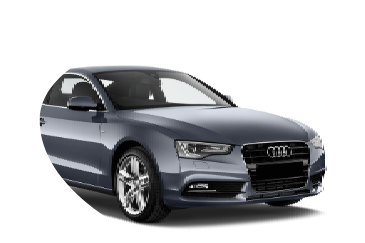
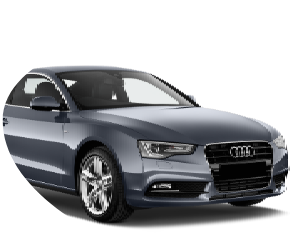
adaptive

diff --git a/build/assets/styles/main.min.css b/build/assets/styles/main.min.css
@@ -1,3 +1,3 @@
-html{-webkit-box-sizing:border-box;box-sizing:border-box}*,:after,:before{-webkit-box-sizing:inherit;box-sizing:inherit}body,html{width:100%;height:100%;padding:0;margin:0}body{font-family:Open Sans,Arial,Helvetica,sans-serif;line-height:1.42;color:#3b495f}.wrapper{width:100%;overflow:hidden;min-height:100%;position:relative;margin-bottom:60px}.content-container{max-width:1160px;margin:0 auto;display:-webkit-box;display:-ms-flexbox;display:flex;-webkit-box-orient:vertical;-webkit-box-direction:normal;-ms-flex-direction:column;flex-direction:column;-webkit-box-pack:center;-ms-flex-pack:center;justify-content:center;-webkit-box-align:center;-ms-flex-align:center;align-items:center;height:100%;background:url(../images/oval.svg) 0 50% no-repeat}
+html{-webkit-box-sizing:border-box;box-sizing:border-box}*,:after,:before{-webkit-box-sizing:inherit;box-sizing:inherit}body,html{width:100%;height:100%;padding:0;margin:0}body{font-family:Open Sans,Arial,Helvetica,sans-serif;line-height:1.42;color:#3b495f}.wrapper{width:100%;overflow:hidden;min-height:100%;position:relative;margin-bottom:60px}.content-container{max-width:1160px;display:-webkit-box;display:-ms-flexbox;display:flex;-webkit-box-orient:vertical;-webkit-box-direction:normal;-ms-flex-direction:column;flex-direction:column;-webkit-box-pack:center;-ms-flex-pack:center;justify-content:center;-webkit-box-align:center;-ms-flex-align:center;align-items:center;height:100%;background:url(../images/oval.svg) 0 50% no-repeat;margin:0 auto 75px}@media (max-width:900px) and (max-height:500px),screen and (max-width:480px){.content-container{background-position:100% 20%;margin-bottom:40px}}
 
-/*! normalize.css v8.0.1 | MIT License | github.com/necolas/normalize.css */html{line-height:1.15;-webkit-text-size-adjust:100%}body{margin:0}main{display:block}h1{font-size:2em;margin:0}hr{-webkit-box-sizing:content-box;box-sizing:content-box;height:0;overflow:visible}pre{font-family:monospace,monospace;font-size:1em}a{background-color:transparent}abbr[title]{border-bottom:none;text-decoration:underline;-webkit-text-decoration:underline dotted;text-decoration:underline dotted}b,strong{font-weight:bolder}code,kbd,samp{font-family:monospace,monospace;font-size:1em}small{font-size:80%}sub,sup{font-size:75%;line-height:0;position:relative;vertical-align:baseline}sub{bottom:-.25em}sup{top:-.5em}img{border-style:none}button,input,optgroup,select,textarea{font-family:inherit;font-size:100%;line-height:1.15;margin:0}button,input{overflow:visible}button,select{text-transform:none}[type=button],[type=reset],[type=submit],button{-webkit-appearance:button}[type=button]::-moz-focus-inner,[type=reset]::-moz-focus-inner,[type=submit]::-moz-focus-inner,button::-moz-focus-inner{border-style:none;padding:0}[type=button]:-moz-focusring,[type=reset]:-moz-focusring,[type=submit]:-moz-focusring,button:-moz-focusring{outline:1px dotted ButtonText}fieldset{padding:.35em .75em .625em}legend{-webkit-box-sizing:border-box;box-sizing:border-box;color:inherit;display:table;max-width:100%;padding:0;white-space:normal}progress{vertical-align:baseline}textarea{overflow:auto}[type=checkbox],[type=radio]{-webkit-box-sizing:border-box;box-sizing:border-box;padding:0}[type=number]::-webkit-inner-spin-button,[type=number]::-webkit-outer-spin-button{height:auto}[type=search]{-webkit-appearance:textfield;outline-offset:-2px}[type=search]::-webkit-search-decoration{-webkit-appearance:none}::-webkit-file-upload-button{-webkit-appearance:button;font:inherit}details{display:block}summary{display:list-item}[hidden],template{display:none}.content{width:100%;font-size:21px;line-height:34px;margin-bottom:46px}.content__wrap{width:86.20689655172414%;margin:0 auto;background:#fff;border-radius:100px;display:-webkit-box;display:-ms-flexbox;display:flex;-webkit-box-pack:justify;-ms-flex-pack:justify;justify-content:space-between;padding:25px 0;-webkit-box-shadow:20px 10px 50px hsla(0,0%,84.3%,.3);box-shadow:20px 10px 50px hsla(0,0%,84.3%,.3)}.content__col{width:50%}.content__col-left{padding-left:105px}.content__right-col{padding-left:10px}.form{width:100%;-ms-flex-pack:distribute;justify-content:space-around;margin-bottom:90px}.form,.label-wrap{display:-webkit-box;display:-ms-flexbox;display:flex}.label-wrap{-webkit-box-orient:vertical;-webkit-box-direction:normal;-ms-flex-direction:column;flex-direction:column;-webkit-box-align:center;-ms-flex-align:center;align-items:center;-webkit-box-pack:end;-ms-flex-pack:end;justify-content:flex-end;width:30%}.form__label{position:relative;margin-bottom:40px}.form__img-wrap{position:relative;display:block}.form__img-wrap-audi{padding-left:64px;padding-bottom:20px}.form__img-wrap:before{position:absolute;top:-1%;left:0;content:"";display:block;width:100%;height:100%;-webkit-transition:-webkit-filter .5s;transition:-webkit-filter .5s;transition:filter .5s;transition:filter .5s,-webkit-filter .5s;-webkit-filter:grayscale(1);filter:grayscale(1)}.form__img-wrap-iphone:before{background:url(../images/iphone_bg.png) 0 93% no-repeat;background-size:contain}.form__img-wrap-audi:before{background:url(../images/audi_bg.png) 51% 81% no-repeat}.form__img-wrap-palm:before{background:url(../images/palm_bg.png) 45% 85% no-repeat}.form__img-pic{position:relative}.form__checkbox{display:none;visibility:hidden}.form__checkbox-fake{display:block;width:42px;height:42px;background-color:#fff;border-radius:50%;position:absolute;bottom:-1rem;left:52%;-webkit-transform:translate(-55%);transform:translate(-55%)}.form__checkbox:checked~.form__checkbox-fake{background:url(../images/icon/check.svg) 50% no-repeat;background-color:#fff}.form__checkbox:checked~.form__img-wrap:before{-webkit-filter:grayscale(0);filter:grayscale(0)}.header{width:100%;min-height:128px;display:-webkit-box;display:-ms-flexbox;display:flex;-webkit-box-align:center;-ms-flex-align:center;align-items:center;-webkit-box-pack:center;-ms-flex-pack:center;justify-content:center;margin-bottom:16px}.header__title{font-size:3.375rem;font-weight:700;line-height:64px;text-align:center;letter-spacing:-3px}.platform{display:-webkit-box;display:-ms-flexbox;display:flex;width:86.20689655172414%;margin-bottom:75px}.banner{padding:1.5% 0;width:47%;height:368px}.banner__render{width:100%;height:100%}.description{width:50%;font-size:18px;padding:5% 3% 5% 13%;text-align:justify}.description__text{font-weight:700;line-height:28px;margin-bottom:26px}.description__list{font-size:16px;font-weight:400;line-height:40px;-webkit-padding-start:20px;padding-inline-start:20px}.registration{display:-webkit-box;display:-ms-flexbox;display:flex;-webkit-box-orient:vertical;-webkit-box-direction:normal;-ms-flex-direction:column;flex-direction:column;padding-bottom:30px;-webkit-box-align:center;-ms-flex-align:center;align-items:center;font-size:18px;font-weight:700}.registration__text{max-width:390px;text-align:center;padding:0 33px;margin-bottom:34px;letter-spacing:1.2px}.mbl1-form-reg{border:none;padding:0;z-index:9;outline:none;display:block}.registration__button{width:240px;height:60px;color:#fff;border-radius:30px;line-height:60px;text-align:center;text-decoration:none;background-color:#2da66c;-webkit-box-shadow:10px 10px 35px rgba(45,166,108,.5);box-shadow:10px 10px 35px rgba(45,166,108,.5)}
+/*! normalize.css v8.0.1 | MIT License | github.com/necolas/normalize.css */html{line-height:1.15;-webkit-text-size-adjust:100%}body{margin:0}main{display:block}h1{font-size:2em;margin:0}hr{-webkit-box-sizing:content-box;box-sizing:content-box;height:0;overflow:visible}pre{font-family:monospace,monospace;font-size:1em}a{background-color:transparent}abbr[title]{border-bottom:none;text-decoration:underline;-webkit-text-decoration:underline dotted;text-decoration:underline dotted}b,strong{font-weight:bolder}code,kbd,samp{font-family:monospace,monospace;font-size:1em}small{font-size:80%}sub,sup{font-size:75%;line-height:0;position:relative;vertical-align:baseline}sub{bottom:-.25em}sup{top:-.5em}img{border-style:none}button,input,optgroup,select,textarea{font-family:inherit;font-size:100%;line-height:1.15;margin:0}button,input{overflow:visible}button,select{text-transform:none}[type=button],[type=reset],[type=submit],button{-webkit-appearance:button}[type=button]::-moz-focus-inner,[type=reset]::-moz-focus-inner,[type=submit]::-moz-focus-inner,button::-moz-focus-inner{border-style:none;padding:0}[type=button]:-moz-focusring,[type=reset]:-moz-focusring,[type=submit]:-moz-focusring,button:-moz-focusring{outline:1px dotted ButtonText}fieldset{padding:.35em .75em .625em}legend{-webkit-box-sizing:border-box;box-sizing:border-box;color:inherit;display:table;max-width:100%;padding:0;white-space:normal}progress{vertical-align:baseline}textarea{overflow:auto}[type=checkbox],[type=radio]{-webkit-box-sizing:border-box;box-sizing:border-box;padding:0}[type=number]::-webkit-inner-spin-button,[type=number]::-webkit-outer-spin-button{height:auto}[type=search]{-webkit-appearance:textfield;outline-offset:-2px}[type=search]::-webkit-search-decoration{-webkit-appearance:none}::-webkit-file-upload-button{-webkit-appearance:button;font:inherit}details{display:block}summary{display:list-item}[hidden],template{display:none}.content{width:100%;font-size:21px;line-height:34px;margin-bottom:46px}@media (max-width:900px) and (max-height:500px),screen and (max-width:480px){.content{margin-bottom:35px}}.content__wrap{width:86.20689655172414%;margin:0 auto;background:#fff;border-radius:100px;display:-webkit-box;display:-ms-flexbox;display:flex;-webkit-box-pack:justify;-ms-flex-pack:justify;justify-content:space-between;padding:25px 105px;-webkit-box-shadow:20px 10px 50px hsla(0,0%,84.3%,.3);box-shadow:20px 10px 50px hsla(0,0%,84.3%,.3)}@media screen and (max-width:830px){.content__wrap{width:95%;display:block;padding:25px 30px;border-radius:10px}}@media (max-width:900px) and (max-height:500px),screen and (max-width:480px){.content__wrap{padding:23px 20px}}.content__col{width:50%}@media screen and (max-width:830px){.content__col{width:100%;display:-webkit-box;display:-ms-flexbox;display:flex}}@media (max-width:900px) and (max-height:500px),screen and (max-width:480px){.content__col-left{font-size:16px;margin-bottom:5px;width:95%}}.content__col-right{padding-left:10px}@media screen and (max-width:830px){.content__col-right{padding-left:0}}@media (max-width:900px) and (max-height:500px),screen and (max-width:480px){.content__col-right{font-size:14px;line-height:20px}}@media screen and (max-width:830px){.content__choise{display:-webkit-box;display:-ms-flexbox;display:flex;-webkit-box-align:center;-ms-flex-align:center;align-items:center}.content__choise:after{content:"";display:block;width:20px;height:1px;background-color:#000;margin:0 5px}}.form{display:-webkit-box;display:-ms-flexbox;display:flex;width:100%;-ms-flex-pack:distribute;justify-content:space-around;margin-bottom:90px}@media screen and (max-width:830px){.form{display:block;position:relative;height:70vh;margin-bottom:35px}}@media (max-width:900px) and (max-height:500px),screen and (max-width:480px){.form{margin-bottom:0;height:80vh}}.label-wrap{display:-webkit-box;display:-ms-flexbox;display:flex;-webkit-box-orient:vertical;-webkit-box-direction:normal;-ms-flex-direction:column;flex-direction:column;-webkit-box-align:center;-ms-flex-align:center;align-items:center;-webkit-box-pack:end;-ms-flex-pack:end;justify-content:flex-end;width:30%}@media screen and (max-width:830px){.label-wrap{position:absolute;width:50%}.label-wrap--iphone{left:0;top:47%;-webkit-transform:translateY(-50%);transform:translateY(-50%)}.label-wrap--audi{right:0;top:0}.label-wrap--palm{right:0;bottom:0}}@media (max-width:900px) and (max-height:500px),screen and (max-width:480px){.label-wrap{width:57%}.label-wrap--iphone{width:47%}.label-wrap--audi{right:0;top:3%}.label-wrap--palm{right:0;bottom:7%}}.form__label{position:relative;margin-bottom:40px;cursor:pointer}@media screen and (max-width:830px){.form__label{margin-bottom:0}}@media (max-width:900px) and (max-height:500px),screen and (max-width:480px){.form__label{width:100%}}.form__img-wrap{position:relative;display:block}.form__img-wrap:before{position:absolute;top:-1%;left:0;content:"";display:block;width:100%;height:100%;-webkit-transition:-webkit-filter .5s;transition:-webkit-filter .5s;transition:filter .5s;transition:filter .5s,-webkit-filter .5s;-webkit-filter:grayscale(1);filter:grayscale(1)}.form__img-wrap-iphone:before{background:url(../images/iphone_bg.png) 0 98% no-repeat;background-size:contain}.form__img-wrap-audi:before{background:url(../images/audi_bg.png) 0 100% no-repeat}@media (max-width:900px) and (max-height:500px),screen and (max-width:480px){.form__img-wrap-audi:before{background-size:80% 93%;background-position:0 120%}}.form__img-wrap-palm:before{background:url(../images/palm_bg.png) 45% 85% no-repeat}@media (max-width:900px) and (max-height:500px),screen and (max-width:480px){.form__img-wrap-palm:before{background-size:90% 75%}}.form__img-pic{position:relative}@media screen and (max-width:830px){.form__img-pic{width:100%}}.form__checkbox{display:none;visibility:hidden}.form__checkbox-fake{display:block;width:42px;height:42px;background-color:#fff;border-radius:50%;position:absolute;bottom:-1rem;left:52%;-webkit-transform:translate(-55%);transform:translate(-55%)}.form__checkbox-fake.form__checkbox-fake--center{left:40%}@media screen and (max-width:830px){.form__checkbox-fake{display:none}}.form__checkbox:checked~.form__checkbox-fake{background:url(../images/icon/check.svg) 50% no-repeat;background-color:#fff}@media (max-width:900px) and (max-height:500px),screen and (max-width:480px){.form__checkbox:checked~.form__checkbox-fake{background:none}}.form__checkbox:checked~.form__img-wrap:before{-webkit-filter:grayscale(0);filter:grayscale(0)}@media screen and (max-width:830px){.form__text{background-color:#fff;padding:5px 15px;min-width:105px;border-radius:25px;position:absolute;bottom:-4%;left:50%;-webkit-transform:translate(-55%);transform:translate(-55%);text-align:center;line-height:18px;-webkit-box-shadow:0 0 50px 0 hsla(0,0%,39.6%,.2);box-shadow:0 0 50px 0 hsla(0,0%,39.6%,.2)}}.header{width:100%;min-height:128px;display:-webkit-box;display:-ms-flexbox;display:flex;-webkit-box-align:center;-ms-flex-align:center;align-items:center;-webkit-box-pack:center;-ms-flex-pack:center;justify-content:center;margin-bottom:16px}@media (max-width:900px) and (max-height:500px),screen and (max-width:480px){.header{margin-bottom:0;padding-top:16px}}.header__title{font-size:3.375rem;font-weight:700;line-height:64px;text-align:center;letter-spacing:-3px}@media (max-width:900px) and (max-height:500px),screen and (max-width:480px){.header__title{font-size:36px;line-height:44px;text-align:center;letter-spacing:-.5px}}.platform{display:-webkit-box;display:-ms-flexbox;display:flex;width:86.20689655172414%}@media (max-width:900px) and (max-height:500px),screen and (max-width:480px){.platform{width:95%;-webkit-box-orient:vertical;-webkit-box-direction:reverse;-ms-flex-direction:column-reverse;flex-direction:column-reverse}}.banner{padding:1.5% 0;width:47%;height:368px}@media (max-width:900px) and (max-height:500px),screen and (max-width:480px){.banner{width:100%;height:255px;padding:0}}.banner__render{width:100%;height:100%}.description{width:50%;font-size:18px;padding:5% 3% 5% 13%;text-align:justify}@media (max-width:900px) and (max-height:500px),screen and (max-width:480px){.description{width:100%;font-size:16px;padding:0 5% 4% 0}}.description__text{font-weight:700;line-height:28px;margin-bottom:26px}@media (max-width:900px) and (max-height:500px),screen and (max-width:480px){.description__text{line-height:25px;margin-bottom:0}}.description__list{font-size:16px;font-weight:400;line-height:40px;-webkit-padding-start:20px;padding-inline-start:20px}@media (max-width:900px) and (max-height:500px),screen and (max-width:480px){.description__list{line-height:32px}}.registration{display:-webkit-box;display:-ms-flexbox;display:flex;-webkit-box-orient:vertical;-webkit-box-direction:normal;-ms-flex-direction:column;flex-direction:column;padding-bottom:30px;-webkit-box-align:center;-ms-flex-align:center;align-items:center;font-size:18px;font-weight:700}@media (max-width:900px) and (max-height:500px),screen and (max-width:480px){.registration{font-size:21px;line-height:28px}}.registration__text{max-width:390px;text-align:center;padding:0 33px;margin-bottom:34px;letter-spacing:1.2px}@media (max-width:900px) and (max-height:500px),screen and (max-width:480px){.registration__text{margin-bottom:0}}@media (max-width:900px) and (max-height:500px),screen and (max-width:480px){.registration__form{margin-top:-3rem}}.mbl1-form-reg{border:none;padding:0;z-index:9;outline:none;display:block}.registration__button{width:240px;height:60px;color:#fff;border-radius:30px;line-height:60px;text-align:center;text-decoration:none;background-color:#2da66c;-webkit-box-shadow:10px 10px 35px rgba(45,166,108,.5);box-shadow:10px 10px 35px rgba(45,166,108,.5)}

diff --git a/src/assets/styles/blocks/form.scss b/src/assets/styles/blocks/form.scss
@@ -3,29 +3,72 @@
     width:100%;
     justify-content: space-around;
     margin-bottom: 90px;
+    @include tablets {
+        display:block;
+        position:relative;
+        height:70vh;
+        margin-bottom: 35px;
+    }
+    @include phones {
+        margin-bottom:0;
+        height:80vh;
+    }
 }
-.label-wrap{
-    
+.label-wrap{ 
     display: flex;
     flex-direction: column;
     align-items: center;
     justify-content: flex-end;
     width: 30%;
+    @include tablets {
+        position: absolute;
+        width:50%;
+        &--iphone{
+            left: 0%;
+            top: 47%;
+            transform:translate(0, -50%);
+        }
+        &--audi{
+            right: 0%;
+            top:0%;
+        }
+        &--palm{
+            right: 0%;
+            bottom:0%;
+        }
+    }
+    @include phones {
+        width:57%;
+        &--iphone{
+            width:47%;
+        }
+        &--audi{
+            right: 0%;
+            top:3%;
+        }
+        &--palm{
+            right: 0%;
+            bottom:7%;
+        }
+    }
 
 }
 .form__label{
     position:relative;
     margin-bottom: 40px;
     cursor: pointer;
+    @include tablets {
+        margin-bottom:0;
+    }
+    @include phones {
+        width:100%;
+
+    }
 }
 
 .form__img-wrap{
     position: relative;
     display:block;
-    &-audi{
-        padding-left: 64px;
-        padding-bottom: 20px;
-    }
     &::before{
         position:absolute;
         top: -1%;
@@ -38,22 +81,28 @@
         filter:grayscale(1);
     }
     &-iphone::before{
-        background: url(../images/iphone_bg.png) 0 93%  no-repeat;
+        background: url(../images/iphone_bg.png) 0 98%  no-repeat;
         background-size: contain;
-
     }
     &-audi::before{
-        background: url(../images/audi_bg.png) 51% 81% no-repeat;
-
+        background: url(../images/audi_bg.png) 0% 100% no-repeat;
+        @include phones {
+            background-size: 80% 93%;
+            background-position: 0 120%;
+        }
     }
     &-palm::before{
         background: url(../images/palm_bg.png) 45% 85%  no-repeat;
-
+        @include phones {
+            background-size: 90% 75%;
+        }
     }
-
 }
 .form__img-pic{
     position: relative;
+    @include tablets {
+        width:100%;
+    }
 }
 
 .form__checkbox{
@@ -70,11 +119,35 @@
     bottom:-1rem;
     left:52%;
     transform:translate(-55%, 0);
+    &.form__checkbox-fake--center{
+        left:40%;
+    }
+    @include tablets {
+        display:none;
+    }
 }
 .form__checkbox:checked ~ .form__checkbox-fake {
     background:url('../images/icon/check.svg') center center no-repeat;
     background-color: white;
+    @include phones {
+        background: none;
+    }
 }
 .form__checkbox:checked ~ .form__img-wrap::before{
     filter:grayscale(0);
+}
+.form__text{
+    @include tablets {
+        background-color: #fff;
+        padding:5px 15px;
+        min-width:105px;
+        border-radius: 25px;
+        position:absolute;
+        bottom:-4%;
+        left:50%;
+        transform:translate(-55%, 0);
+        text-align: center;
+        line-height: 18px;
+        box-shadow: 0px 0px 50px 0px rgba(101,101,101,0.2);
+    }
 }

diff --git a/build/index.html b/build/index.html
@@ -15,7 +15,7 @@
           <h1 class="header__title">Выбери свои <br /> цели на 2019 год</h1>
         </header>
         <form class="form" action="">
-          <div class="label-wrap">
+          <div class="label-wrap label-wrap--iphone">
             <label class="form__label" for="iphone"> 
               <input class="form__checkbox" type="checkbox" id="iphone"/>
               <div class="form__img-wrap form__img-wrap-iphone"><img class="form__img-pic" src="./assets/images/iphone.png" alt="iphone" srcset="./assets/images/iphone2x.png 2x"/></div>
@@ -23,15 +23,15 @@
             </label>
             <div class="form__text">iPhone Xs</div>
           </div>
-          <div class="label-wrap">
+          <div class="label-wrap label-wrap--audi">
             <label class="form__label" for="car"> 
               <input class="form__checkbox" type="checkbox" id="car"/>
               <div class="form__img-wrap form__img-wrap-audi"><img class="form__img-pic" src="./assets/images/audi.png" alt="audiA5" srcset="./assets/images/audi2x.png 2x"/></div>
-              <div class="form__checkbox-fake"></div>
+              <div class="form__checkbox-fake form__checkbox-fake--center"></div>
             </label>
             <div class="form__text">Audi A5</div>
           </div>
-          <div class="label-wrap">
+          <div class="label-wrap label-wrap--palm">
             <label class="form__label" for="palm"> 
               <input class="form__checkbox" type="checkbox" id="palm"/>
               <div class="form__img-wrap form__img-wrap-palm"><img class="form__img-pic" src="./assets/images/palm.png" alt="palm" srcset="./assets/images/palm2x.png 2x"/></div>

diff --git a/src/assets/styles/blocks/content.scss b/src/assets/styles/blocks/content.scss
@@ -3,6 +3,9 @@
     font-size:21px;
     line-height: 34px;
     margin-bottom:46px;
+    @include phones {
+        margin-bottom: 35px;
+    }
 }
 .content__wrap{
     width:86.20689655172414%;
@@ -11,15 +14,53 @@
     border-radius:100px;
     display:flex;
     justify-content:space-between;
-    padding: 25px 0;
+    padding: 25px 105px;
     box-shadow:20px 10px 50px rgba(215,215,215,.3);
+    @include tablets {
+        width:95%;
+        display:block;
+        padding:25px 30px;
+        border-radius: 10px;
+    }
+    @include phones {
+        padding: 23px 20px;
+    }
 }
 .content__col{
     width:50%;
+    @include tablets {
+        width:100%;
+        display:flex;
+    }
 }
 .content__col-left{
-    padding-left:105px;
+    @include phones {
+        font-size:16px;
+        margin-bottom:5px;
+        width:95%;
+    }
 }
-.content__right-col{
+.content__col-right{
     padding-left: 10px;
+    @include tablets {
+        padding-left:0;
+    }
+    @include phones {
+        font-size: 14px;
+        line-height:20px;
+    }
+}
+.content__choise{
+    @include tablets{
+    display:flex;
+    align-items: center;
+    &:after{
+        content:'';
+        display:block;
+        width:20px;
+        height:1px;
+        background-color: black;
+        margin: 0 5px;
+        }
+    }
 }

diff --git a/src/assets/styles/blocks/platform.scss b/src/assets/styles/blocks/platform.scss
@@ -1,13 +1,21 @@
 .platform {
     display: flex;
     width: 86.20689655172414%;
-    margin-bottom: 75px;
+    @include phones {
+        width:95%;
+        flex-direction:column-reverse;
+    }
 }
 
 .banner {
     padding: 1.5% 0;
     width: 47%;
     height: 368px;
+    @include phones {
+        width: 100%;
+        height: 255px;
+        padding: 0;
+    }
 }
 
 .banner__render {
@@ -20,17 +28,29 @@
     font-size: 18px;
     padding: 5% 3% 5% 13%;
     text-align:justify;
+    @include phones {
+        width:100%;
+        font-size: 16px;
+        padding: 0% 5% 4% 0%;
+    }
 }
 
 .description__text {
     font-weight: 700;
     line-height: 28px;
     margin-bottom: 26px;
+    @include phones {
+        line-height: 25px;
+        margin-bottom: 0;
+    }
 }
 
 .description__list {
     font-size: 16px;
     font-weight: 400;
     line-height: 40px;
-    padding-inline-start: 20px
+    padding-inline-start: 20px;
+    @include phones {
+        line-height: 32px;
+    }
 }

diff --git a/src/assets/styles/blocks/registration.scss b/src/assets/styles/blocks/registration.scss
@@ -5,6 +5,10 @@
     align-items: center;
     font-size: 18px;
     font-weight: bold;
+    @include phones {
+        font-size: 21px;
+        line-height: 28px;
+    }
 }
 .registration__text{
     max-width: 390px;
@@ -12,6 +16,14 @@
     padding: 0 33px;
     margin-bottom: 34px;
     letter-spacing: 1.2px;
+    @include phones {
+        margin-bottom:0;
+    }
+}
+.registration__form {
+    @include phones {
+        margin-top:-3rem;
+    }
 }
 .mbl1-form-reg{
     border: none;

diff --git a/src/assets/styles/blocks/header.scss b/src/assets/styles/blocks/header.scss
@@ -5,6 +5,10 @@
     align-items: center;
     justify-content: center;
     margin-bottom: 16px;
+    @include phones {
+        margin-bottom: 0;
+        padding-top:16px;
+    }
    
 }
 .header__title{
@@ -13,4 +17,10 @@
     line-height: 64px;
     text-align: center;
     letter-spacing: -3px;
+    @include phones {
+        font-size: 36px;
+        line-height: 44px;
+        text-align: center;
+        letter-spacing: -0.5px;
+    }
 }

diff --git a/src/assets/styles/layout/base.scss b/src/assets/styles/layout/base.scss
@@ -36,4 +36,9 @@ body{
     align-items: center;
     height: 100%;
     background:url(../images/oval.svg) 0 50% no-repeat;
+    margin-bottom: 75px;
+    @include phones {
+        background-position: 100% 20%;
+        margin-bottom: 40px;
+    }
 }
